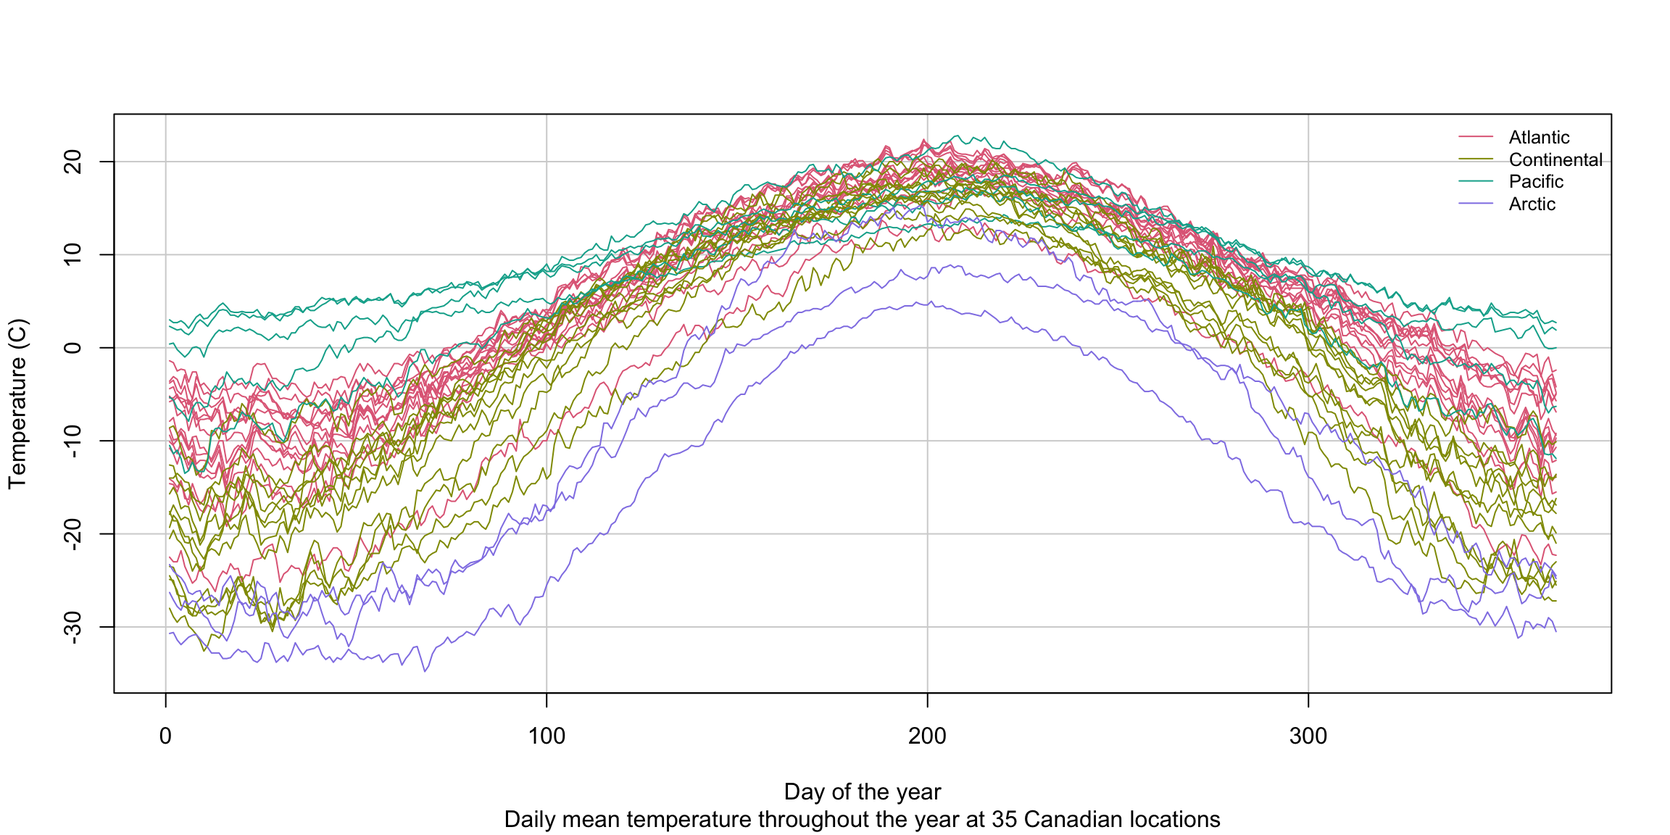
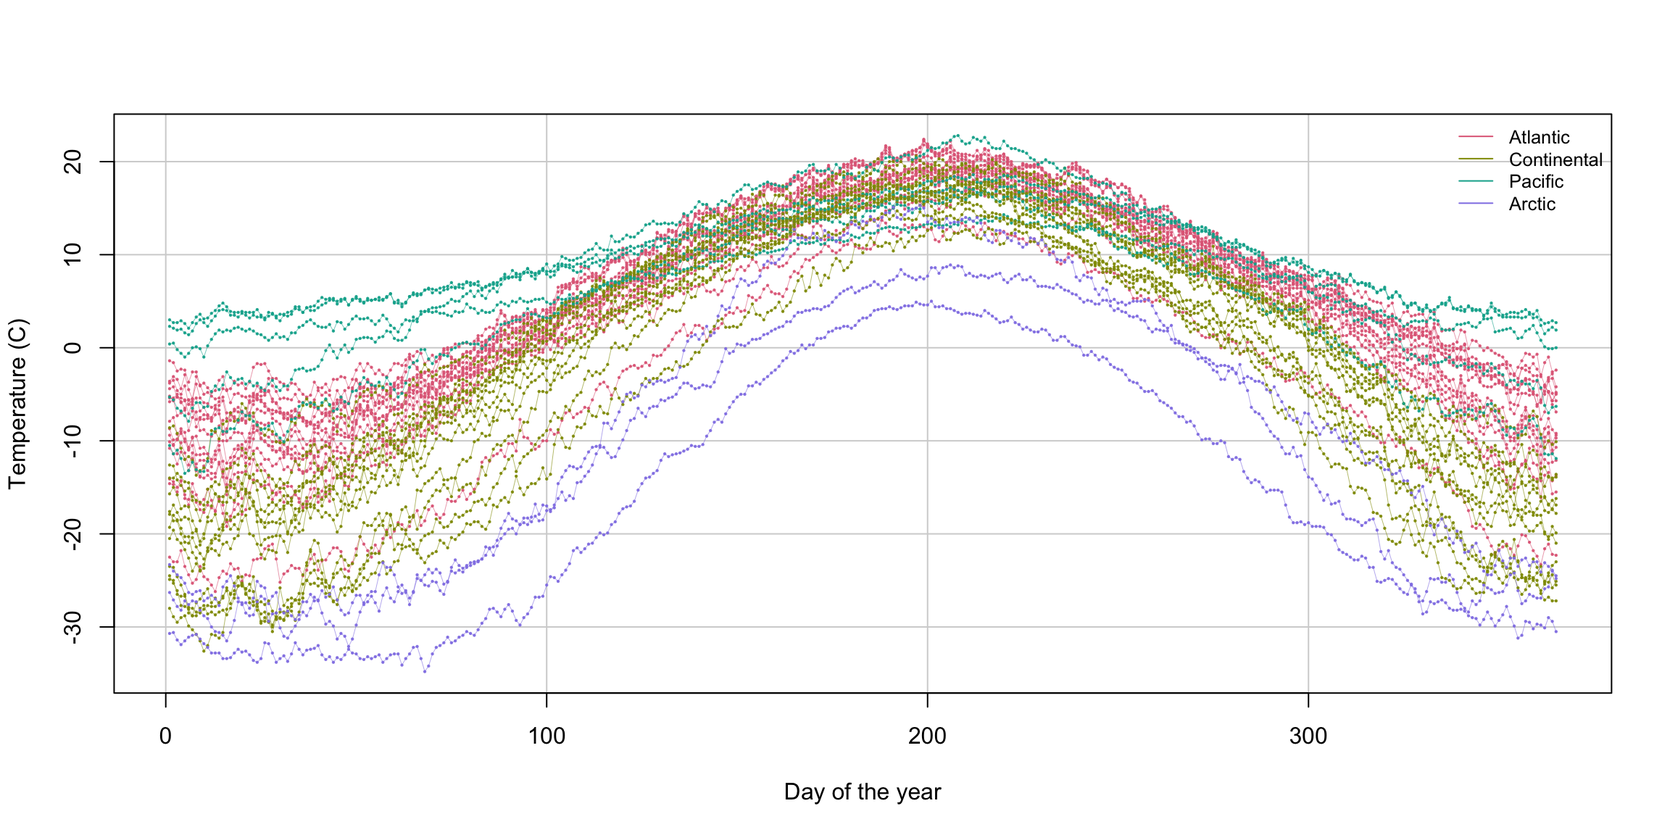
Clarify latent functions and observed FDA measurements

Changed region(s): [[0.0938, 0.1562, 0.9375, 0.7812], [0.3125, 0.9688, 0.7188, 1.0], [0.2812, 0.7188, 0.3125, 0.75]]

diff --git a/index-speaker.html b/index-speaker.html
@@ -12,7 +12,7 @@
   <meta name="author" content="Valentin Patilea^\dagger">
   <meta name="author" content="Jeffrey S. Racine^\ddagger">
   <meta name="dcterms.date" content="2026-08-21">
-  <title>quarto-input95c562ada544ff16</title>
+  <title>quarto-input84c23153d932a79e</title>
   <meta name="apple-mobile-web-app-capable" content="yes">
   <meta name="apple-mobile-web-app-status-bar-style" content="black-translucent">
   <meta name="viewport" content="width=device-width, initial-scale=1.0, maximum-scale=1.0, user-scalable=no, minimal-ui">
@@ -291,13 +291,13 @@ Y_{ij} = X_i(T_{ij}) + \varepsilon_{ij},
           display:block!important;
       }</style></aside>
 </section>
-<section id="classical-versus-functional-data-2" class="slide level2 center">
-<h2>Classical Versus Functional Data</h2>
+<section id="sample-elements-vectors-versus-functions" class="slide level2 center">
+<h2>Sample Elements: Vectors Versus Functions</h2>
 
 <img data-src="index_files/figure-revealjs/fig-sampleelements-1.png" class="quarto-figure quarto-figure-center r-stretch" width="960" id="fig-sampleelements"><p class="caption">
-Figure&nbsp;1: Classical Versus Functional Sample Elements (<span class="math inline">\(N=25\)</span>)
+Figure&nbsp;1: Two samples with <span class="math inline">\(N=25\)</span>: observed classical elements <span class="math inline">\((Z_{i1},Z_{i2})\)</span>, <span class="math inline">\(i=1,\ldots,25\)</span> (left), and latent functional elements <span class="math inline">\(X_i(t)\)</span> (right).
 </p><aside class="notes">
-<p>Each point in the left panel is a bivariate classical sample element <span class="math inline">\(Z_i=(Z_{i1},Z_{i2})^\top\)</span>. Each colored line in the right panel is one random sample element: an entire latent trajectory. This is a different sampling object, not simply a regression curve fitted to the left-hand points. This faithfully uses the historical example’s 25 curves, one observation time per curve, 100-point grid, measurement-noise standard deviation 0.5, and process scale 1; each trajectory includes an independent <span class="math inline">\(N(0,1)\)</span> curve-specific random intercept.</p>
+<p>Each point in the left panel is one observed bivariate classical sample element <span class="math inline">\(Z_i=(Z_{i1},Z_{i2})^\top\)</span>. Each colored line in the right panel is one latent functional sample element: the entire trajectory <span class="math inline">\(X_i(\cdot)\)</span>. This is a different sampling object, not simply a regression curve fitted to the left-hand points. This faithfully uses the historical example’s 25 curves, one observation time per curve, 100-point grid, measurement-noise standard deviation 0.5, and process scale 1; each trajectory includes an independent <span class="math inline">\(N(0,1)\)</span> curve-specific random intercept.</p>
 <style type="text/css">
         span.MJX_Assistive_MathML {
           position:absolute!important;
@@ -321,11 +321,11 @@ Figure&nbsp;1: Classical Versus Functional Sample Elements (<span class="math in
 <li class="fragment">the observation times may differ across curves;</li>
 <li class="fragment">measurements may be contaminated by error.</li>
 </ul></li>
-<li class="fragment"><p>The next three figures distinguish:</p>
+<li class="fragment"><p>The next three figures separate one latent functional sample element <span class="math inline">\(X_i(\cdot)\)</span> from the discrete functional observations sampled from it:</p>
 <ul>
-<li class="fragment">an irregular curve measured without error (<a href="#/fig-nonnoisyfuncall" class="quarto-xref">Figure&nbsp;2</a>);</li>
-<li class="fragment">a smooth curve measured with error (<a href="#/fig-noisyfuncall" class="quarto-xref">Figure&nbsp;3</a>);</li>
-<li class="fragment">varying regularity together with measurement noise (<a href="#/fig-mfbm" class="quarto-xref">Figure&nbsp;4</a>).</li>
+<li class="fragment">an irregular function with <span class="math inline">\(M_1=100\)</span> exact observations (<a href="#/fig-nonnoisyfuncall" class="quarto-xref">Figure&nbsp;2</a>);</li>
+<li class="fragment">a smooth function with <span class="math inline">\(M_1=100\)</span> noisy observations (<a href="#/fig-noisyfuncall" class="quarto-xref">Figure&nbsp;3</a>);</li>
+<li class="fragment">a function of varying regularity with <span class="math inline">\(M_1=50\)</span> noisy observations (<a href="#/fig-mfbm" class="quarto-xref">Figure&nbsp;4</a>).</li>
 </ul></li>
 </ul>
 <aside class="notes">
@@ -342,25 +342,25 @@ Figure&nbsp;1: Classical Versus Functional Sample Elements (<span class="math in
           display:block!important;
       }</style></aside>
 </section>
-<section id="fda-sample-element-1-random-function" class="slide level2 center">
-<h2>FDA Sample Element (1 Random Function)</h2>
+<section id="one-latent-function-measured-without-error" class="slide level2 center">
+<h2>One Latent Function, Measured Without Error</h2>
 
 <img data-src="index_files/figure-revealjs/fig-nonnoisyfuncall-1.png" class="quarto-figure quarto-figure-center r-stretch" width="1152" id="fig-nonnoisyfuncall"><p class="caption">
-Figure&nbsp;2: Irregular Function, Data Measured Without Error
+Figure&nbsp;2: One latent functional sample element <span class="math inline">\(X_1(t)\)</span> and its exact observations <span class="math inline">\(\{(T_{1j},Y_{1j}):j=1,\ldots,M_1\}\)</span>, with <span class="math inline">\(M_1=100\)</span>.
 </p></section>
-<section id="fda-sample-element-1-random-function-1" class="slide level2 center">
-<h2>FDA Sample Element (1 Random Function)</h2>
+<section id="one-latent-function-measured-with-error" class="slide level2 center">
+<h2>One Latent Function, Measured With Error</h2>
 
 <img data-src="index_files/figure-revealjs/fig-noisyfuncall-1.png" class="quarto-figure quarto-figure-center r-stretch" width="1152" id="fig-noisyfuncall"><p class="caption">
-Figure&nbsp;3: Smooth Function, Noisy Data
+Figure&nbsp;3: One latent functional sample element <span class="math inline">\(X_1(t)\)</span> and its <span class="math inline">\(M_1=100\)</span> noisy observations <span class="math inline">\((T_{1j},Y_{1j})\)</span>.
 </p></section>
-<section id="fda-sample-element-1-random-function-2" class="slide level2 center">
-<h2>FDA Sample Element (1 Random Function)</h2>
+<section id="one-latent-function-with-varying-regularity" class="slide level2 center">
+<h2>One Latent Function with Varying Regularity</h2>
 
 <img data-src="index_files/figure-revealjs/fig-mfbm-1.png" class="quarto-figure quarto-figure-center r-stretch" width="1152" id="fig-mfbm"><p class="caption">
-Figure&nbsp;4: Irregular Function, Varying Regularity, Noisy Data
+Figure&nbsp;4: One latent functional sample element <span class="math inline">\(X_1(t)\)</span> with varying regularity and its <span class="math inline">\(M_1=50\)</span> noisy observations, <span class="math inline">\(Y_{1j}=X_1(T_{1j})+\varepsilon_{1j}\)</span>.
 </p><aside class="notes">
-<p>The roughness of the latent curve changes over its domain, while the sampled points also contain measurement error. This is a visual illustration of the observation problem, not an assumption needed by the covariance estimator. The synthetic path is based on a multifractional Brownian-motion construction <span class="citation" data-cites="PeltierLevyVehel1995">(<a href="#/references" role="doc-biblioref" onclick="">Peltier and Lévy Véhel 1995</a>)</span>. The next two slides show real functional datasets.</p>
+<p>The roughness of the latent curve changes over its domain, while the sampled points also contain measurement error. This is a visual illustration of the observation problem, not an assumption needed by the covariance estimator. The synthetic path is based on a multifractional Brownian-motion construction <span class="citation" data-cites="PeltierLevyVehel1995">(<a href="#/references" role="doc-biblioref" onclick="">Peltier and Lévy Véhel 1995</a>)</span>. The next two slides show real functional datasets. In those examples the latent trajectories are unknown: only the observed pairs are plotted, and connecting segments are visual guides rather than latent curves.</p>
 <style type="text/css">
         span.MJX_Assistive_MathML {
           position:absolute!important;
@@ -373,13 +373,13 @@ Figure&nbsp;4: Irregular Function, Varying Regularity, Noisy Data
           display:block!important;
       }</style></aside>
 </section>
-<section id="fda-sample-elements-random-functions" class="slide level2 center">
-<h2>FDA Sample Elements (Random Functions)</h2>
+<section id="observed-functional-data-growth-measurements" class="slide level2 center">
+<h2>Observed Functional Data: Growth Measurements</h2>
 
 <img data-src="index_files/figure-revealjs/fig-growth-1.png" class="quarto-figure quarto-figure-center r-stretch" width="1152" id="fig-growth"><p class="caption">
-Figure&nbsp;5: Berkeley Growth Study Data
+Figure&nbsp;5: Observed heights <span class="math inline">\((T_{ij},Y_{ij})\)</span> for <span class="math inline">\(N=54\)</span> girls on a common grid of 31 ages (<span class="math inline">\(M_1=\cdots=M_{54}=31\)</span>). Points are data; connecting lines are visual guides, not latent functions <span class="math inline">\(X_i(t)\)</span>.
 </p><aside class="notes">
-<p>The ages are unevenly spaced: four measurements between years 1 and 2, one per year through age 8, and two per year thereafter. These curves are comparatively smooth and densely sampled relative to the sparse setting studied in this talk. Data source: <code>fda::growth</code>; see <span class="citation" data-cites="ramsay2005">Ramsay and Silverman (<a href="#/references" role="doc-biblioref" onclick="">2005</a>)</span>.</p>
+<p>The ages are unevenly spaced: four measurements between years 1 and 2, one per year through age 8, and two per year thereafter. These curves are comparatively smooth and densely sampled relative to the sparse setting studied in this talk. R’s plotting routine connects each girl’s successive observed pairs with line segments to make her longitudinal record easier to follow. Those segments are not observations of the latent trajectory <span class="math inline">\(X_i(\cdot)\)</span> and are not a fitted smooth. Data source: <code>fda::growth</code>; see <span class="citation" data-cites="ramsay2005">Ramsay and Silverman (<a href="#/references" role="doc-biblioref" onclick="">2005</a>)</span>.</p>
 <style type="text/css">
         span.MJX_Assistive_MathML {
           position:absolute!important;
@@ -392,13 +392,13 @@ Figure&nbsp;5: Berkeley Growth Study Data
           display:block!important;
       }</style></aside>
 </section>
-<section id="fda-sample-elements-random-functions-1" class="slide level2 center">
-<h2>FDA Sample Elements (Random Functions)</h2>
+<section id="observed-functional-data-daily-temperatures" class="slide level2 center">
+<h2>Observed Functional Data: Daily Temperatures</h2>
 
 <img data-src="index_files/figure-revealjs/fig-canWeather-1.png" class="quarto-figure quarto-figure-center r-stretch" width="1152" id="fig-canWeather"><p class="caption">
-Figure&nbsp;6: Canadian Weather Study Data
+Figure&nbsp;6: Observed daily mean temperatures <span class="math inline">\((T_{ij},Y_{ij})\)</span> for <span class="math inline">\(N=35\)</span> Canadian locations on a common grid of 365 days (<span class="math inline">\(M_1=\cdots=M_{35}=365\)</span>). Points are data; connecting lines are visual guides, not latent functions <span class="math inline">\(X_i(t)\)</span>.
 </p><aside class="notes">
-<p>These curves share a common daily grid and are less smooth than the growth curves. The example contrasts a common design with the subject-specific, irregular observation times emphasized in the current paper. Data source: <code>fda::CanadianWeather</code>; see <span class="citation" data-cites="ramsay2005">Ramsay and Silverman (<a href="#/references" role="doc-biblioref" onclick="">2005</a>)</span>.</p>
+<p>These curves share a common daily grid and are less smooth than the growth curves. The example contrasts a common design with the subject-specific, irregular observation times emphasized in the current paper. Data source: <code>fda::CanadianWeather</code>; see <span class="citation" data-cites="ramsay2005">Ramsay and Silverman (<a href="#/references" role="doc-biblioref" onclick="">2005</a>)</span>. R connects successive daily observations within each location only to help the eye follow the seasonal record; the connecting segments are not the latent trajectory <span class="math inline">\(X_i(\cdot)\)</span>.</p>
 <style type="text/css">
         span.MJX_Assistive_MathML {
           position:absolute!important;

diff --git a/index.html b/index.html
@@ -12,7 +12,7 @@
   <meta name="author" content="Valentin Patilea^\dagger">
   <meta name="author" content="Jeffrey S. Racine^\ddagger">
   <meta name="dcterms.date" content="2026-08-21">
-  <title>quarto-input95c562ada544ff16</title>
+  <title>quarto-input84c23153d932a79e</title>
   <meta name="apple-mobile-web-app-capable" content="yes">
   <meta name="apple-mobile-web-app-status-bar-style" content="black-translucent">
   <meta name="viewport" content="width=device-width, initial-scale=1.0, maximum-scale=1.0, user-scalable=no, minimal-ui">
@@ -291,13 +291,13 @@ Y_{ij} = X_i(T_{ij}) + \varepsilon_{ij},
           display:block!important;
       }</style></aside>
 </section>
-<section id="classical-versus-functional-data-2" class="slide level2 center">
-<h2>Classical Versus Functional Data</h2>
+<section id="sample-elements-vectors-versus-functions" class="slide level2 center">
+<h2>Sample Elements: Vectors Versus Functions</h2>
 
 <img data-src="index_files/figure-revealjs/fig-sampleelements-1.png" class="quarto-figure quarto-figure-center r-stretch" width="960" id="fig-sampleelements"><p class="caption">
-Figure&nbsp;1: Classical Versus Functional Sample Elements (<span class="math inline">\(N=25\)</span>)
+Figure&nbsp;1: Two samples with <span class="math inline">\(N=25\)</span>: observed classical elements <span class="math inline">\((Z_{i1},Z_{i2})\)</span>, <span class="math inline">\(i=1,\ldots,25\)</span> (left), and latent functional elements <span class="math inline">\(X_i(t)\)</span> (right).
 </p><aside class="notes">
-<p>Each point in the left panel is a bivariate classical sample element <span class="math inline">\(Z_i=(Z_{i1},Z_{i2})^\top\)</span>. Each colored line in the right panel is one random sample element: an entire latent trajectory. This is a different sampling object, not simply a regression curve fitted to the left-hand points. This faithfully uses the historical example’s 25 curves, one observation time per curve, 100-point grid, measurement-noise standard deviation 0.5, and process scale 1; each trajectory includes an independent <span class="math inline">\(N(0,1)\)</span> curve-specific random intercept.</p>
+<p>Each point in the left panel is one observed bivariate classical sample element <span class="math inline">\(Z_i=(Z_{i1},Z_{i2})^\top\)</span>. Each colored line in the right panel is one latent functional sample element: the entire trajectory <span class="math inline">\(X_i(\cdot)\)</span>. This is a different sampling object, not simply a regression curve fitted to the left-hand points. This faithfully uses the historical example’s 25 curves, one observation time per curve, 100-point grid, measurement-noise standard deviation 0.5, and process scale 1; each trajectory includes an independent <span class="math inline">\(N(0,1)\)</span> curve-specific random intercept.</p>
 <style type="text/css">
         span.MJX_Assistive_MathML {
           position:absolute!important;
@@ -321,11 +321,11 @@ Figure&nbsp;1: Classical Versus Functional Sample Elements (<span class="math in
 <li class="fragment">the observation times may differ across curves;</li>
 <li class="fragment">measurements may be contaminated by error.</li>
 </ul></li>
-<li class="fragment"><p>The next three figures distinguish:</p>
+<li class="fragment"><p>The next three figures separate one latent functional sample element <span class="math inline">\(X_i(\cdot)\)</span> from the discrete functional observations sampled from it:</p>
 <ul>
-<li class="fragment">an irregular curve measured without error (<a href="#/fig-nonnoisyfuncall" class="quarto-xref">Figure&nbsp;2</a>);</li>
-<li class="fragment">a smooth curve measured with error (<a href="#/fig-noisyfuncall" class="quarto-xref">Figure&nbsp;3</a>);</li>
-<li class="fragment">varying regularity together with measurement noise (<a href="#/fig-mfbm" class="quarto-xref">Figure&nbsp;4</a>).</li>
+<li class="fragment">an irregular function with <span class="math inline">\(M_1=100\)</span> exact observations (<a href="#/fig-nonnoisyfuncall" class="quarto-xref">Figure&nbsp;2</a>);</li>
+<li class="fragment">a smooth function with <span class="math inline">\(M_1=100\)</span> noisy observations (<a href="#/fig-noisyfuncall" class="quarto-xref">Figure&nbsp;3</a>);</li>
+<li class="fragment">a function of varying regularity with <span class="math inline">\(M_1=50\)</span> noisy observations (<a href="#/fig-mfbm" class="quarto-xref">Figure&nbsp;4</a>).</li>
 </ul></li>
 </ul>
 <aside class="notes">
@@ -342,25 +342,25 @@ Figure&nbsp;1: Classical Versus Functional Sample Elements (<span class="math in
           display:block!important;
       }</style></aside>
 </section>
-<section id="fda-sample-element-1-random-function" class="slide level2 center">
-<h2>FDA Sample Element (1 Random Function)</h2>
+<section id="one-latent-function-measured-without-error" class="slide level2 center">
+<h2>One Latent Function, Measured Without Error</h2>
 
 <img data-src="index_files/figure-revealjs/fig-nonnoisyfuncall-1.png" class="quarto-figure quarto-figure-center r-stretch" width="1152" id="fig-nonnoisyfuncall"><p class="caption">
-Figure&nbsp;2: Irregular Function, Data Measured Without Error
+Figure&nbsp;2: One latent functional sample element <span class="math inline">\(X_1(t)\)</span> and its exact observations <span class="math inline">\(\{(T_{1j},Y_{1j}):j=1,\ldots,M_1\}\)</span>, with <span class="math inline">\(M_1=100\)</span>.
 </p></section>
-<section id="fda-sample-element-1-random-function-1" class="slide level2 center">
-<h2>FDA Sample Element (1 Random Function)</h2>
+<section id="one-latent-function-measured-with-error" class="slide level2 center">
+<h2>One Latent Function, Measured With Error</h2>
 
 <img data-src="index_files/figure-revealjs/fig-noisyfuncall-1.png" class="quarto-figure quarto-figure-center r-stretch" width="1152" id="fig-noisyfuncall"><p class="caption">
-Figure&nbsp;3: Smooth Function, Noisy Data
+Figure&nbsp;3: One latent functional sample element <span class="math inline">\(X_1(t)\)</span> and its <span class="math inline">\(M_1=100\)</span> noisy observations <span class="math inline">\((T_{1j},Y_{1j})\)</span>.
 </p></section>
-<section id="fda-sample-element-1-random-function-2" class="slide level2 center">
-<h2>FDA Sample Element (1 Random Function)</h2>
+<section id="one-latent-function-with-varying-regularity" class="slide level2 center">
+<h2>One Latent Function with Varying Regularity</h2>
 
 <img data-src="index_files/figure-revealjs/fig-mfbm-1.png" class="quarto-figure quarto-figure-center r-stretch" width="1152" id="fig-mfbm"><p class="caption">
-Figure&nbsp;4: Irregular Function, Varying Regularity, Noisy Data
+Figure&nbsp;4: One latent functional sample element <span class="math inline">\(X_1(t)\)</span> with varying regularity and its <span class="math inline">\(M_1=50\)</span> noisy observations, <span class="math inline">\(Y_{1j}=X_1(T_{1j})+\varepsilon_{1j}\)</span>.
 </p><aside class="notes">
-<p>The roughness of the latent curve changes over its domain, while the sampled points also contain measurement error. This is a visual illustration of the observation problem, not an assumption needed by the covariance estimator. The synthetic path is based on a multifractional Brownian-motion construction <span class="citation" data-cites="PeltierLevyVehel1995">(<a href="#/references" role="doc-biblioref" onclick="">Peltier and Lévy Véhel 1995</a>)</span>. The next two slides show real functional datasets.</p>
+<p>The roughness of the latent curve changes over its domain, while the sampled points also contain measurement error. This is a visual illustration of the observation problem, not an assumption needed by the covariance estimator. The synthetic path is based on a multifractional Brownian-motion construction <span class="citation" data-cites="PeltierLevyVehel1995">(<a href="#/references" role="doc-biblioref" onclick="">Peltier and Lévy Véhel 1995</a>)</span>. The next two slides show real functional datasets. In those examples the latent trajectories are unknown: only the observed pairs are plotted, and connecting segments are visual guides rather than latent curves.</p>
 <style type="text/css">
         span.MJX_Assistive_MathML {
           position:absolute!important;
@@ -373,13 +373,13 @@ Figure&nbsp;4: Irregular Function, Varying Regularity, Noisy Data
           display:block!important;
       }</style></aside>
 </section>
-<section id="fda-sample-elements-random-functions" class="slide level2 center">
-<h2>FDA Sample Elements (Random Functions)</h2>
+<section id="observed-functional-data-growth-measurements" class="slide level2 center">
+<h2>Observed Functional Data: Growth Measurements</h2>
 
 <img data-src="index_files/figure-revealjs/fig-growth-1.png" class="quarto-figure quarto-figure-center r-stretch" width="1152" id="fig-growth"><p class="caption">
-Figure&nbsp;5: Berkeley Growth Study Data
+Figure&nbsp;5: Observed heights <span class="math inline">\((T_{ij},Y_{ij})\)</span> for <span class="math inline">\(N=54\)</span> girls on a common grid of 31 ages (<span class="math inline">\(M_1=\cdots=M_{54}=31\)</span>). Points are data; connecting lines are visual guides, not latent functions <span class="math inline">\(X_i(t)\)</span>.
 </p><aside class="notes">
-<p>The ages are unevenly spaced: four measurements between years 1 and 2, one per year through age 8, and two per year thereafter. These curves are comparatively smooth and densely sampled relative to the sparse setting studied in this talk. Data source: <code>fda::growth</code>; see <span class="citation" data-cites="ramsay2005">Ramsay and Silverman (<a href="#/references" role="doc-biblioref" onclick="">2005</a>)</span>.</p>
+<p>The ages are unevenly spaced: four measurements between years 1 and 2, one per year through age 8, and two per year thereafter. These curves are comparatively smooth and densely sampled relative to the sparse setting studied in this talk. R’s plotting routine connects each girl’s successive observed pairs with line segments to make her longitudinal record easier to follow. Those segments are not observations of the latent trajectory <span class="math inline">\(X_i(\cdot)\)</span> and are not a fitted smooth. Data source: <code>fda::growth</code>; see <span class="citation" data-cites="ramsay2005">Ramsay and Silverman (<a href="#/references" role="doc-biblioref" onclick="">2005</a>)</span>.</p>
 <style type="text/css">
         span.MJX_Assistive_MathML {
           position:absolute!important;
@@ -392,13 +392,13 @@ Figure&nbsp;5: Berkeley Growth Study Data
           display:block!important;
       }</style></aside>
 </section>
-<section id="fda-sample-elements-random-functions-1" class="slide level2 center">
-<h2>FDA Sample Elements (Random Functions)</h2>
+<section id="observed-functional-data-daily-temperatures" class="slide level2 center">
+<h2>Observed Functional Data: Daily Temperatures</h2>
 
 <img data-src="index_files/figure-revealjs/fig-canWeather-1.png" class="quarto-figure quarto-figure-center r-stretch" width="1152" id="fig-canWeather"><p class="caption">
-Figure&nbsp;6: Canadian Weather Study Data
+Figure&nbsp;6: Observed daily mean temperatures <span class="math inline">\((T_{ij},Y_{ij})\)</span> for <span class="math inline">\(N=35\)</span> Canadian locations on a common grid of 365 days (<span class="math inline">\(M_1=\cdots=M_{35}=365\)</span>). Points are data; connecting lines are visual guides, not latent functions <span class="math inline">\(X_i(t)\)</span>.
 </p><aside class="notes">
-<p>These curves share a common daily grid and are less smooth than the growth curves. The example contrasts a common design with the subject-specific, irregular observation times emphasized in the current paper. Data source: <code>fda::CanadianWeather</code>; see <span class="citation" data-cites="ramsay2005">Ramsay and Silverman (<a href="#/references" role="doc-biblioref" onclick="">2005</a>)</span>.</p>
+<p>These curves share a common daily grid and are less smooth than the growth curves. The example contrasts a common design with the subject-specific, irregular observation times emphasized in the current paper. Data source: <code>fda::CanadianWeather</code>; see <span class="citation" data-cites="ramsay2005">Ramsay and Silverman (<a href="#/references" role="doc-biblioref" onclick="">2005</a>)</span>. R connects successive daily observations within each location only to help the eye follow the seasonal record; the connecting segments are not the latent trajectory <span class="math inline">\(X_i(\cdot)\)</span>.</p>
 <style type="text/css">
         span.MJX_Assistive_MathML {
           position:absolute!important;
